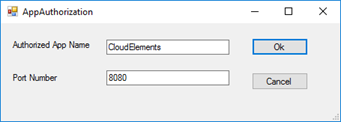
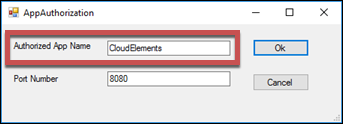
Finsihed updating Setup, Authentication , and CEQL

diff --git a/docs/elements/quickbooksenterprise/setup.md b/docs/elements/quickbooksenterprise/setup.md
@@ -1,15 +1,12 @@
 ---
-heading: Name of Element
+heading: Quickbooks Enterprise
 seo: API Provider Setup | API provider setup | Name of Element | Cloud Elements API Docs
 title: API Provider Setup
 description: Setup tasks required to authenticate an element instance
 layout: sidebarelementdoc
 breadcrumbs: /docs/elements.html
-elementId: nn
-elementKey: key
-apiKey: Key Name
-apiSecret: Secret Name
-callbackURL: Callback URL Name
+elementId: 195
+elementKey: quickbooksonprem
 parent: Back to Element Guides
 order: 5
 ---
@@ -40,7 +37,7 @@ Your Cloud Elements CSM or Delivery Manager typically helps with the initial set
 1. Run the Ground2Cloud Setup Wizard.
 
     After installing Ground2Cloud, the wizard prompts you to install the CE Connector application.
-    
+
 3. Click **Install**.
 4. Finish the Ground2Cloud Setup Wizard.
 
@@ -49,6 +46,7 @@ Your Cloud Elements CSM or Delivery Manager typically helps with the initial set
 4. Click **Edit**, and then click **Authorize**.
 ![Authorize](img/authorize.png)
 4. In **Authorized App Name** enter a name for the connection. The name is used as the **Configured Application Name** when you authenticate an element instance.
+![Authorization Window](img/auth-window.png)
 5. Keep the default port number and click **OK**.
 6. Note the url under Registrations. This is used as the **Host Name/IP** when you authenticate an element instance.
 If you have not created an application, you need one to authenticate with {{page.heading}}.

diff --git a/docs/elements/quickbooksenterprise/ceql.md b/docs/elements/quickbooksenterprise/ceql.md
@@ -11,4 +11,44 @@ order: 45
 sitemap: false
 ---
 
-{% include ceql.md %}
+# Cloud Elements Query Language
+
+The Cloud Elements Query Language (CEQL) is a query language used by Cloud Elements to standardize searching across all of our different elements. Many APIs support some form of searching in their APIs but they’re almost all different, so we have standardized a common way to search across all of our elements. Cloud Elements translates the CEQL to the endpoint’s searching syntax, however at times, CEQL supports more than the endpoint.
+
+## CEQL in {{page.heading}}
+
+Use CEQL to query the following endpoints:
+
+* GET /reports &mdash; see [Reports](reports.html) for details.
+* GET /credit-memos
+* GET /payment-methods
+* GET /classes
+* GET /ledger-accounts
+* GET /payments
+* GET /journal-entries
+* GET /bill-payment-checks
+* GET /bill-payment-cards
+* GET /products
+* GET /tax-rates
+* GET /invoices
+* GET /sales-receipts
+* GET /vendor-credits
+* GET /bills
+* GET /customers
+* GET /inventory-adjustments
+* GET /vendors
+* GET /purchase-orders
+* GET /sales-orders
+* GET /tax-codes
+* GET /payroll-wage-items
+* GET /credit-terms
+* GET /{objectName}
+* GET /{objectName}/{objectId}/{childObjectName}
+* GET /item-receipts
+* GET /employees
+* POST /bulk/query
+* GET /inventory-sites
+* GET /currencies
+* GET /time-activities
+
+{% include ceql-ref.md%}

diff --git a/docs/elements/quickbooksenterprise/authenticate.md b/docs/elements/quickbooksenterprise/authenticate.md
@@ -120,8 +120,8 @@ API parameters not shown in {{site.console}} are in `code formatting`.
 | :------------- | :------------- | :------------- |
 | Key<br/>`key` | The element key.<br/>{{page.elementKey}}  | string  |
 |  Name<br/>`name` |  The name for the element instance created during authentication.   | Body  |
-| Configured Application Name</br>`app.name` | The application name that is configured in the Quickbooks application. | string |
-| Host Name/IP</br>`host.ip` | The URL of the server hosting Quickbooks Enterprise | string |
+| Configured Application Name</br>`app.name` | The **Configured Application Name** that you noted in [API Provider Setup](setup.html). | string |
+| Host Name/IP</br>`host.ip` | The **Host Name/IP** that you noted in [API Provider Setup](setup.html). | string |
 | Filter null values from the response <br/>`filter.response.nulls` | *Optional*. Determines if null values in the response JSON should be filtered from the response. Yes or `true` indicates that Cloud Elements will filter null values. <br/>Default: `true`.  | boolean |
 | tags | *Optional*. User-defined tags to further identify the instance. | string |
 
